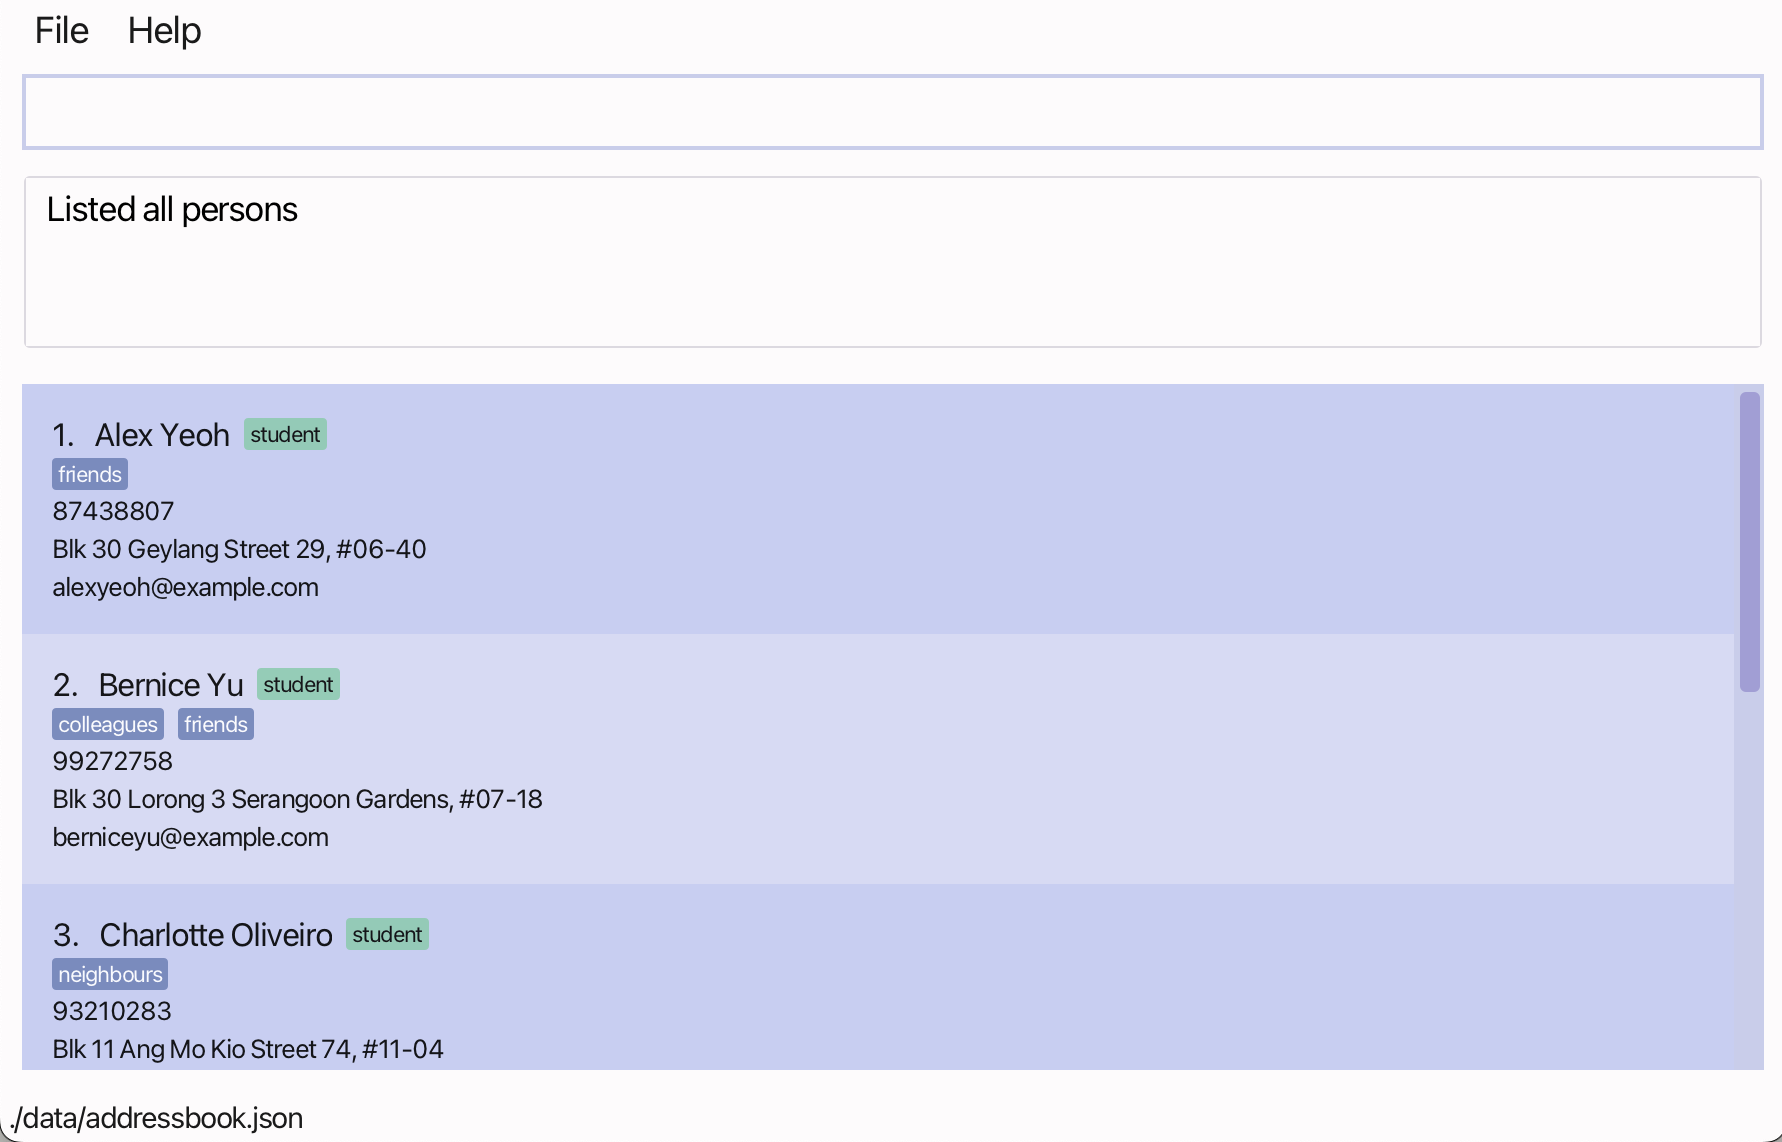
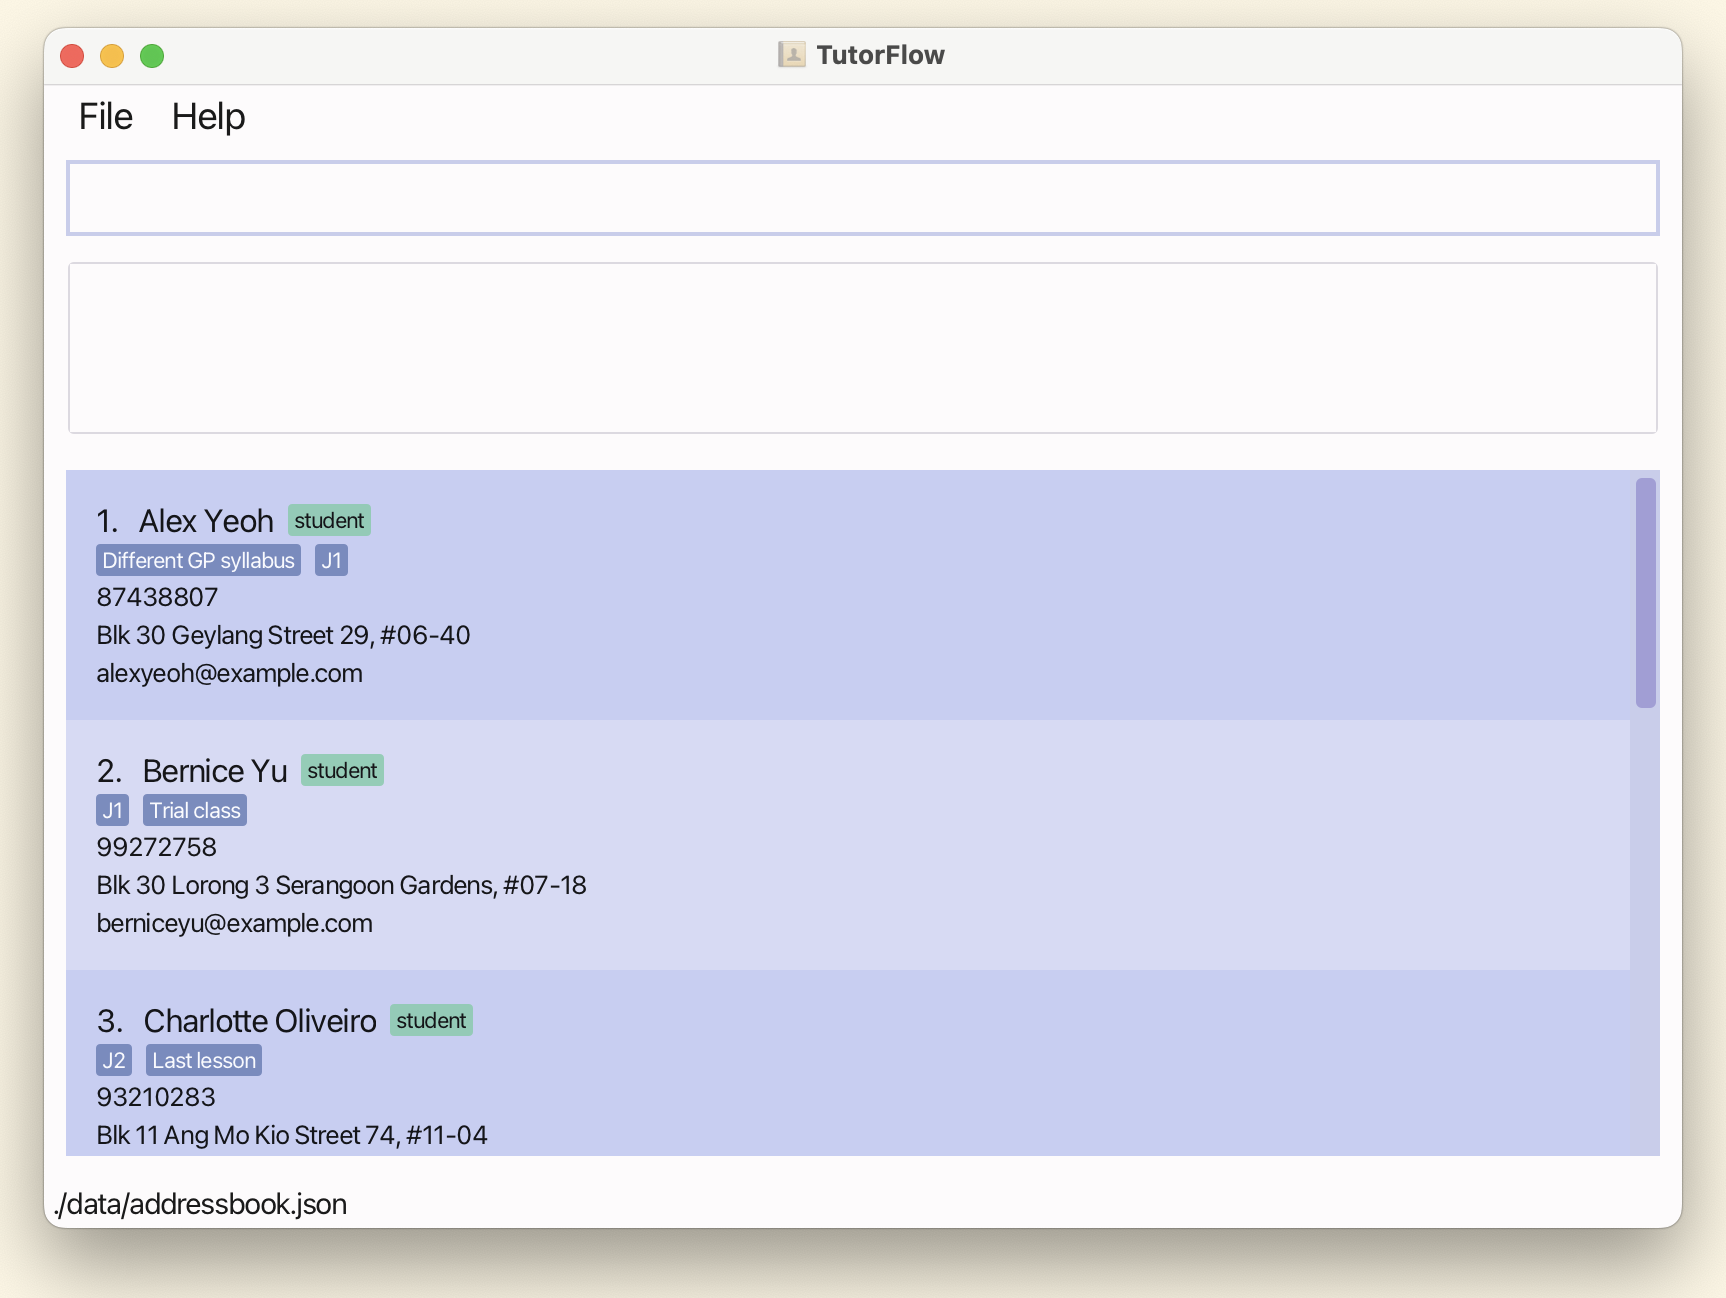
Modify sample tags

Changed region(s): [[0.0, 0.0, 1.0, 1.0]]

diff --git a/src/main/java/seedu/address/model/util/SampleDataUtil.java b/src/main/java/seedu/address/model/util/SampleDataUtil.java
@@ -24,27 +24,35 @@ public class SampleDataUtil {
             PersonFactory.createPerson(Category.STUDENT, new Name("Alex Yeoh"), new Phone("87438807"),
                 new Email("alexyeoh@example.com"),
                 new Address("Blk 30 Geylang Street 29, #06-40"),
-                getTagSet("friends")),
+                getTagSet("J1", "Different GP syllabus")),
             PersonFactory.createPerson(Category.STUDENT, new Name("Bernice Yu"), new Phone("99272758"),
                 new Email("berniceyu@example.com"),
                 new Address("Blk 30 Lorong 3 Serangoon Gardens, #07-18"),
-                getTagSet("colleagues", "friends")),
+                getTagSet("J1", "Trial class")),
             PersonFactory.createPerson(Category.STUDENT, new Name("Charlotte Oliveiro"), new Phone("93210283"),
                 new Email("charlotte@example.com"),
                 new Address("Blk 11 Ang Mo Kio Street 74, #11-04"),
-                getTagSet("neighbours")),
+                getTagSet("J2", "Last lesson")),
             PersonFactory.createPerson(Category.PARENT, new Name("David Li"), new Phone("91031282"),
                 new Email("lidavid@example.com"),
                 new Address("Blk 436 Serangoon Gardens Street 26, #16-43"),
-                getTagSet("family")),
+                getTagSet("Prefers email updates")),
+            PersonFactory.createPerson(Category.TUTOR, new Name("Eric Hanson"), new Phone("91249873"),
+                    new Email("erich@example.com"),
+                    new Address("Blk 70 Bugis Street 15, #14-09"),
+                    getTagSet()),
             PersonFactory.createPerson(Category.STUDENT, new Name("Irfan Ibrahim"), new Phone("92492021"),
                 new Email("irfan@example.com"),
                 new Address("Blk 47 Tampines Street 20, #17-35"),
-                getTagSet("classmates")),
+                getTagSet("J1")),
             PersonFactory.createPerson(Category.TUTOR, new Name("Roy Balakrishnan"), new Phone("92624417"),
                 new Email("royb@example.com"),
                 new Address("Blk 45 Aljunied Street 85, #11-31"),
-                getTagSet("colleagues"))
+                getTagSet("New hire")),
+            PersonFactory.createPerson(Category.PARENT, new Name("Shelley Yeo"), new Phone("83159103"),
+                    new Email("yeohshelley@example.com"),
+                    new Address("Blk 11 Ang Mo Kio Street 74, #11-04"),
+                    getTagSet()),
         };
     }
 

diff --git a/src/main/java/seedu/address/model/tag/Tag.java b/src/main/java/seedu/address/model/tag/Tag.java
@@ -10,7 +10,7 @@ import static seedu.address.commons.util.AppUtil.checkArgument;
 public class Tag {
 
     public static final String MESSAGE_CONSTRAINTS = "Tags names should be alphanumeric";
-    public static final String VALIDATION_REGEX = "\\p{Alnum}+";
+    public static final String VALIDATION_REGEX = "^[a-zA-Z0-9]+(?: [a-zA-Z0-9]+)*$";
 
     public final String tagName;
 
